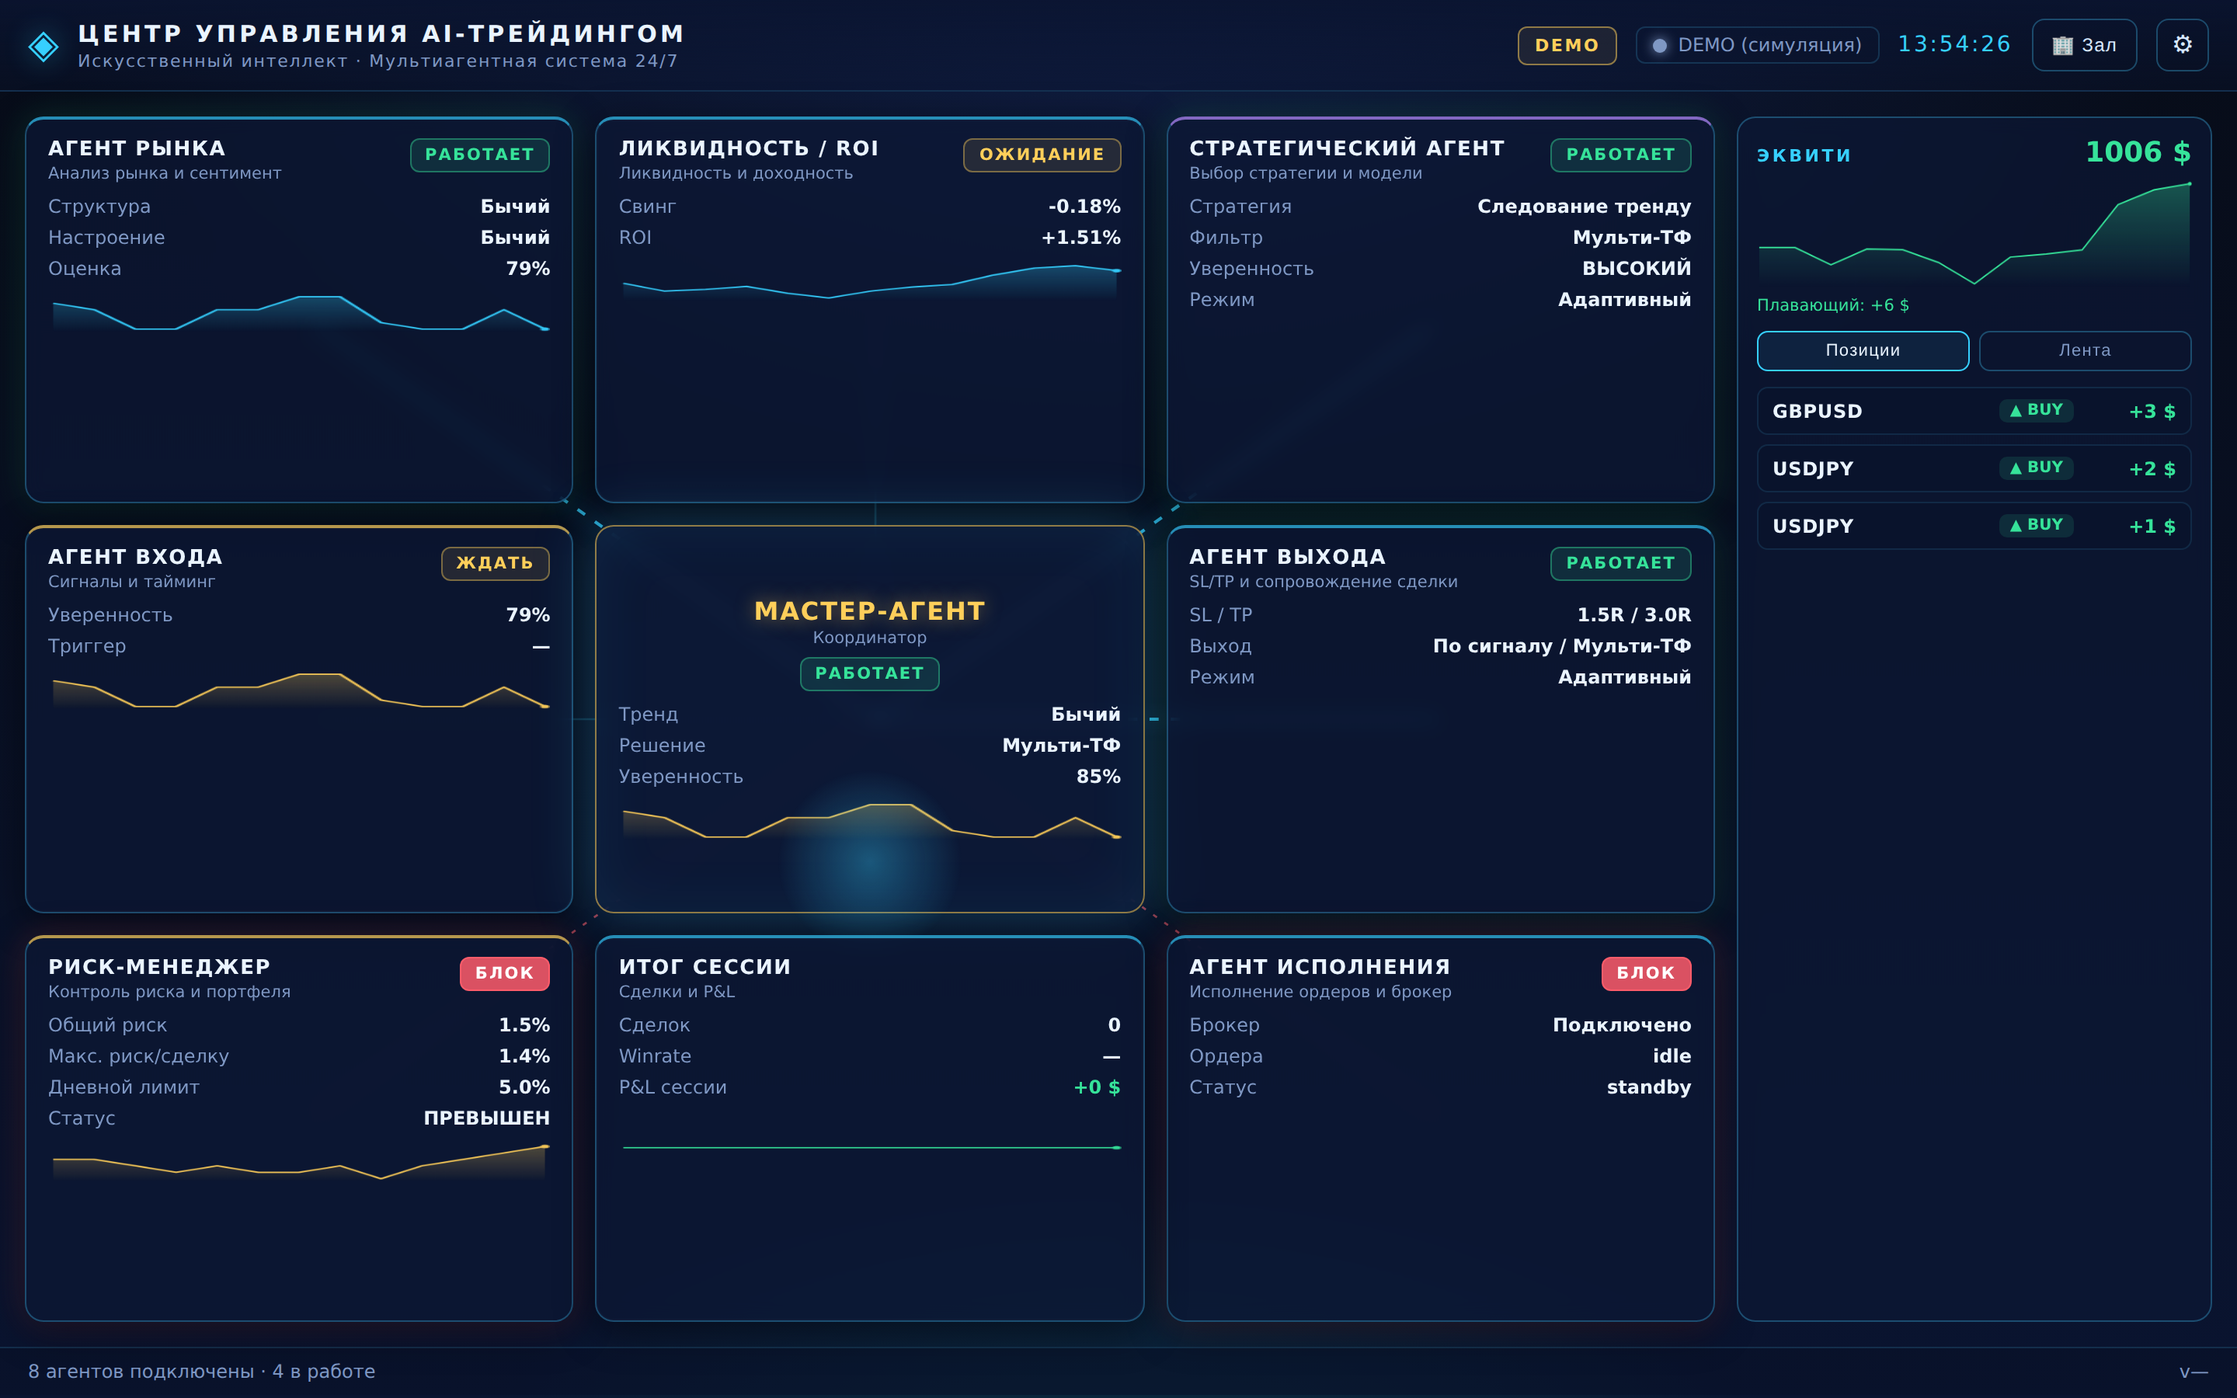
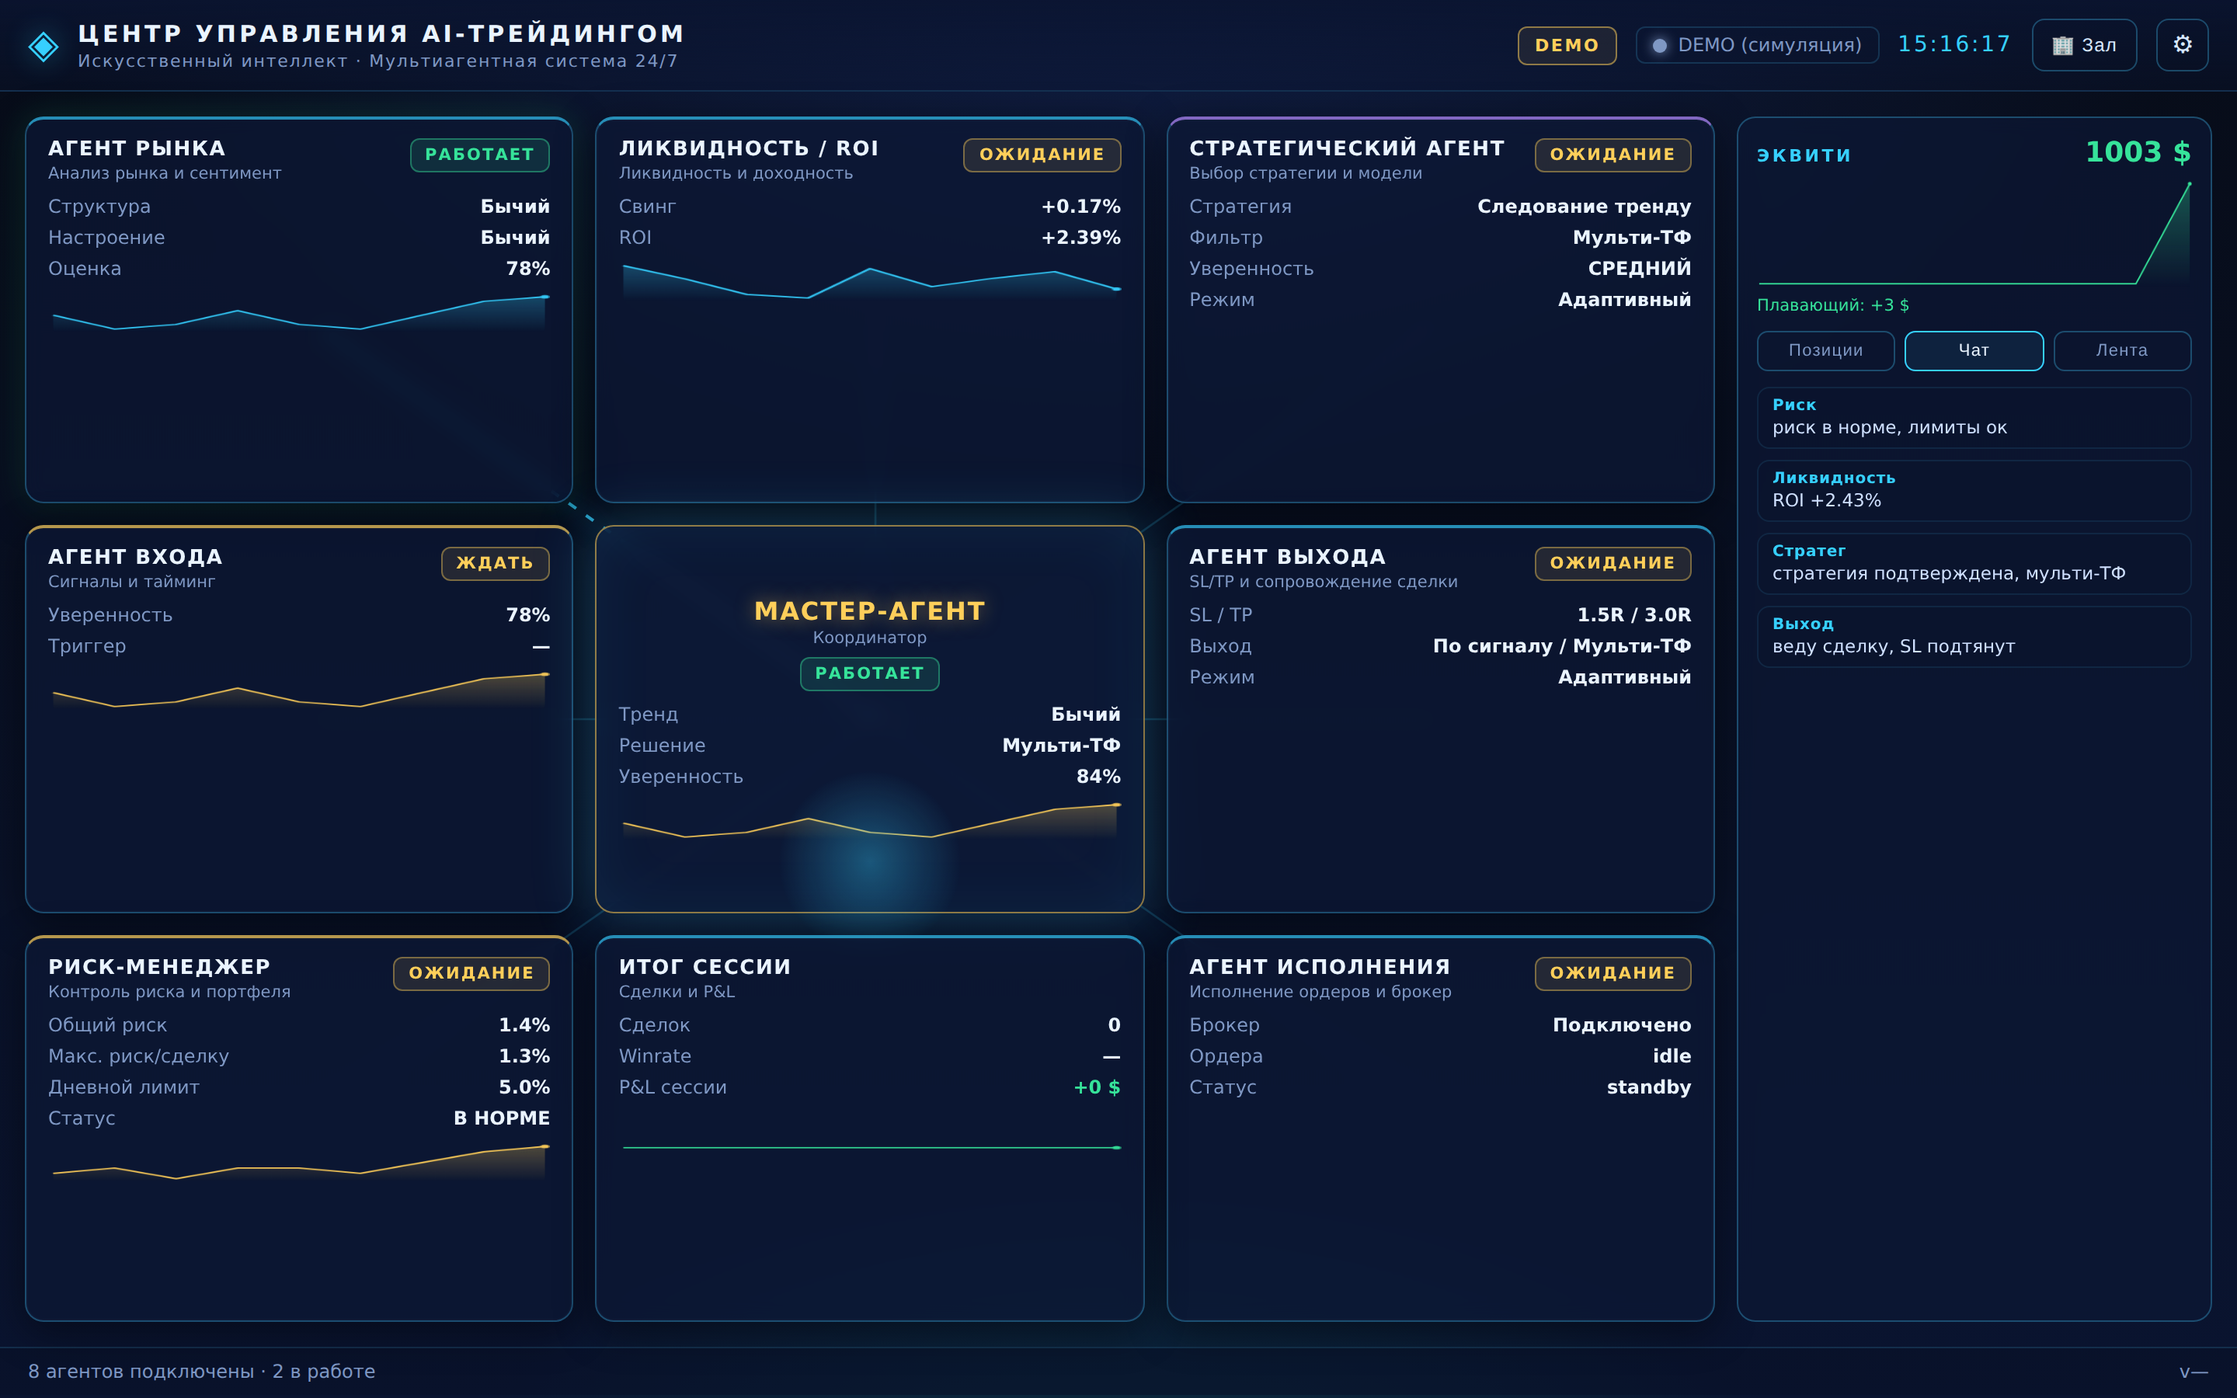
Team-alive: hiring/leaving, energy & mood, team chat
- Dynamic team size: the simulator hires an intern as equity climbs and loses
  one on drawdown (hysteresis); the floor spawns/removes intern characters
  ('Стажёр') who walk in at the entrance, roam, and leave via the exit.
- Energy & mood: each agent has an energy bar under its nameplate that drains
  while working and recovers on breaks; tired agents head for coffee; the whole
  team does a happy bounce when equity jumps (a win).
- Team chat: a new 'Чат' tab in the right column streams short, state-aware
  agent lines (market structure, master decision, risk, execution, ROI).

Validated error-free via headless Chromium (assets/hud.png, floor.png).

Claude-Session: https://claude.ai/code/session_01K4bLkzzwJQD9288yDjJJh4

diff --git a/AI-Trading-Office-V4/renderer/office.js b/AI-Trading-Office-V4/renderer/office.js
@@ -48,6 +48,9 @@ let canvas, ctx, raf = 0, last = 0, dpr = 1;
 let ents = {}, agentsDef = null;
 let viewScale = 1, viewOx = 0, viewOy = 0, selectedId = null, onSelectCb = null;
 let activeSymbols = new Set();
+let interns = [], internSeq = 0, lastEquity = 1000, cheerUntil = 0;
+const ENTRANCE = { x: 600, y: 172 };            // interns appear/leave here (under the video wall)
+const ornd = (a, b) => a + Math.random() * (b - a);
 let standup = { active: false, until: 0, nextAt: 0 };
 let signals = [], nextSignalAt = 0, lastDecision = '';
 
@@ -67,14 +70,39 @@ function initEntities() {
       color: accentFor(a.id), skin: SKINS[hh % SKINS.length], hair: HAIRS[(hh >> 3) % HAIRS.length],
       hairStyle: hh % 5, beard: ((hh >> 6) % 4) === 0, look: ROLE_LOOK[a.id] || {},
       brokerRun: { active: false, phase: 'go', until: 0 }, brokerCooldown: 0,
-      blinkOffset: (hh % 5000), data: null, gesture: null, gestureUntil: 0
+      blinkOffset: (hh % 5000), data: null, gesture: null, gestureUntil: 0,
+      energy: 65 + Math.random() * 30
     };
   });
   standup = { active: false, until: 0, nextAt: performance.now() + 20000 };
   signals = []; nextSignalAt = performance.now() + 4000; lastDecision = '';
+  interns = []; internSeq = 0; lastEquity = 1000; cheerUntil = 0;
+}
+
+function spawnIntern() {
+  const hh = Math.floor(Math.random() * 100000);
+  interns.push({
+    id: 'intern' + (++internSeq), x: ENTRANCE.x + ornd(-24, 24), y: ENTRANCE.y + 8,
+    tx: ENTRANCE.x, ty: ENTRANCE.y + 40, status: 'waiting', phase: Math.random() * 10, facing: 1, moving: false,
+    roaming: false, dwellUntil: 0, roamKind: null, leaving: false,
+    color: '#8fd0ff', skin: SKINS[hh % SKINS.length], hair: HAIRS[(hh >> 3) % HAIRS.length],
+    hairStyle: hh % 5, beard: false, look: {}, blinkOffset: hh % 5000, gesture: null, gestureUntil: 0, energy: 85
+  });
+}
+function syncInterns(target) {
+  let active = interns.filter(i => !i.leaving);
+  while (active.length < target) { spawnIntern(); active = interns.filter(i => !i.leaving); }
+  for (let i = interns.length - 1; i >= 0 && active.length > target; i--) {
+    if (!interns[i].leaving) { interns[i].leaving = true; active = interns.filter(x => !x.leaving); }
+  }
+}
+function pickRoamGeneric(e) {
+  if (Math.random() < 0.5) { e.tx = 120 + Math.random() * (W - 240); e.ty = 360 + Math.random() * 320; e.roamKind = 'wander'; }
+  else { const r = ROAM[Math.floor(Math.random() * ROAM.length)]; e.tx = r.x; e.ty = r.y; e.roamKind = r.kind; }
 }
 
 function pickRoam(e) {
+  if (e.energy != null && e.energy < 35 && Math.random() < 0.6) { e.tx = ROAM[0].x; e.ty = ROAM[0].y; e.roamKind = 'coffee'; return; }  // tired → coffee
   if (Math.random() < 0.28) { const d = DESKS[e.id]; e.tx = d.x; e.ty = d.y; e.roamKind = 'desk'; return; }
   const r = ROAM[Math.floor(Math.random() * ROAM.length)];
   e.tx = r.x; e.ty = r.y; e.roamKind = r.kind;
@@ -88,6 +116,9 @@ const Office = {
     const m = world.agents.master && world.agents.master.metrics;
     if (m && m.decision) lastDecision = String(m.decision);
     activeSymbols = new Set((world.summary && world.summary.activeSymbols) || []);
+    const eq = world.summary && world.summary.equity;
+    if (typeof eq === 'number') { if (eq - lastEquity > 4) cheerUntil = performance.now() + 1500; lastEquity = eq; }
+    syncInterns((world.summary && world.summary.interns) || 0);
   },
   start() { if (!raf) { last = performance.now(); loop(performance.now()); } },
   stop() { cancelAnimationFrame(raf); raf = 0; },
@@ -95,7 +126,9 @@ const Office = {
   forceSignal() { signals.push({ t0: performance.now(), dur: 4600, symbol: SYMB[Math.floor(Math.random() * SYMB.length)], side: sideFromDecision() }); },
   forceBrokerRun() { const e = ents.execution; if (e) e.brokerRun = { active: true, phase: 'go', until: 0, symbol: 'XAUUSD', side: 'BUY' }; },
   select(id) { selectedId = (id && ents[id]) ? id : null; if (onSelectCb) onSelectCb(selectedId); },
-  onSelect(cb) { onSelectCb = cb; }
+  onSelect(cb) { onSelectCb = cb; },
+  testInterns(n) { syncInterns(n); }   // preview helper
+
 };
 
 function resizeIfNeeded() {
@@ -174,6 +207,24 @@ function step(dt, now) {
       }
     }
     if (e.gesture && (e.moving || now > e.gestureUntil)) e.gesture = null;
+    // energy: drains at the desk, recovers on breaks (coffee fastest)
+    if (e.status === 'working') e.energy = Math.max(0, e.energy - 0.02 * dt);
+    else e.energy = Math.min(100, e.energy + (e.roamKind === 'coffee' ? 0.05 : 0.02) * dt);
+  }
+  // interns roam the hall; a leaving one heads for the exit and despawns
+  for (let i = interns.length - 1; i >= 0; i--) {
+    const e = interns[i];
+    if (e.leaving) {
+      e.tx = ENTRANCE.x; e.ty = ENTRANCE.y + 6; e.roamKind = null; moveToward(e, dt);
+      if (Math.abs(e.x - ENTRANCE.x) < 8 && Math.abs(e.y - (ENTRANCE.y + 6)) < 8) interns.splice(i, 1);
+      continue;
+    }
+    if (!e.roaming) { e.roaming = true; pickRoamGeneric(e); e.dwellUntil = 0; }
+    if (Math.abs(e.x - e.tx) < 3 && Math.abs(e.y - e.ty) < 3) {
+      if (!e.dwellUntil) e.dwellUntil = now + 1500 + Math.random() * 4000;
+      else if (now > e.dwellUntil) { pickRoamGeneric(e); e.dwellUntil = 0; }
+    }
+    moveToward(e, dt);
   }
 }
 
@@ -217,6 +268,7 @@ function draw(now) {
     items.push({ y: d.y + 34, fn: () => { drawWorkstation(id, now); if (isSit) drawSeated(e, now); } });
     if (!isSit) items.push({ y: e.y + 16, fn: () => drawWalking(e, now) });
   }
+  for (const e of interns) items.push({ y: e.y + 16, fn: () => drawWalking(e, now) });
   items.sort((a, b) => a.y - b.y);
   for (const it of items) it.fn();
 
@@ -492,7 +544,8 @@ function drawChair(x, y) {
 /* ---- people ---- */
 function drawSeated(e, now) {
   const d = DESKS[e.id]; const breath = Math.sin(now / 700 + e.phase) * 0.5;
-  const x = d.x, y = d.y - 18 + breath;
+  const cheer = now < cheerUntil ? Math.abs(Math.sin(now / 80 + e.phase)) * 3 : 0;   // bounce on a team win
+  const x = d.x, y = d.y - 18 + breath - cheer;
   shadow(x, y + 22, 13);
   ctx.fillStyle = e.color; roundRect(x - 11, y - 2, 22, 22, 7); ctx.fill();
   ctx.fillStyle = shade(e.color, -28); roundRect(x + 4, y - 2, 7, 22, 4); ctx.fill();      // body shade
@@ -508,7 +561,8 @@ function drawSeated(e, now) {
 }
 
 function drawWalking(e, now) {
-  const x = e.x, y = e.y, walk = e.moving ? Math.sin(e.phase) : Math.sin(now / 700 + e.phase) * 0.3;
+  const cheer = now < cheerUntil ? Math.abs(Math.sin(now / 80 + e.phase)) * 3 : 0;
+  const x = e.x, y = e.y - cheer, walk = e.moving ? Math.sin(e.phase) : Math.sin(now / 700 + e.phase) * 0.3;
   shadow(x, y + 15, 11);
   ctx.fillStyle = '#1b2b4d'; roundRect(x - 6, y + 6 + walk * 2, 5, 11, 2); ctx.fill(); roundRect(x + 1, y + 6 - walk * 2, 5, 11, 2); ctx.fill();
   ctx.fillStyle = e.color; roundRect(x - 9, y - 10, 18, 20, 6); ctx.fill();
@@ -573,12 +627,20 @@ function drawHair(e, x, y) {
 }
 
 function nameplate(e, x, y) {
-  const label = SHORT[e.id] || e.id; ctx.font = '9px Segoe UI, sans-serif'; ctx.textAlign = 'center';
+  const label = SHORT[e.id] || (String(e.id).startsWith('intern') ? 'Стажёр' : e.id);
+  ctx.font = '9px Segoe UI, sans-serif'; ctx.textAlign = 'center';
   const w = ctx.measureText(label).width + 10, st = e.status;
   const bg = st === 'working' ? 'rgba(54,227,154,0.18)' : st === 'blocked' ? 'rgba(255,93,108,0.22)' : 'rgba(12,24,52,0.8)';
   roundRect(x - w / 2, y - 9, w, 13, 4); ctx.fillStyle = bg; ctx.fill();
   ctx.strokeStyle = 'rgba(54,208,255,0.25)'; ctx.lineWidth = 0.8; ctx.stroke();
   ctx.fillStyle = 'rgba(234,244,255,0.95)'; ctx.fillText(label, x, y + 1);
+  // energy bar
+  if (e.energy != null) {
+    const bw = 22, ex = x - bw / 2, ey = y + 5;
+    ctx.fillStyle = 'rgba(255,255,255,0.12)'; roundRect(ex, ey, bw, 2.6, 1); ctx.fill();
+    ctx.fillStyle = e.energy > 50 ? '#36e39a' : e.energy > 25 ? '#ffcf5a' : '#ff6b7a';
+    roundRect(ex, ey, bw * e.energy / 100, 2.6, 1); ctx.fill();
+  }
 }
 
 function emote(e, x, y, now) {

diff --git a/AI-Trading-Office-V4/renderer/app.js b/AI-Trading-Office-V4/renderer/app.js
@@ -82,6 +82,32 @@ function buildPanels() {
 
 function highlightPanel(id) { for (const k in panels) panels[k].root.classList.toggle('selected', k === id); }
 
+// ---------- team chat (short role-appropriate chatter) ----------
+function genChat() {
+  if (!world || !world.agents) return;
+  const a = world.agents, lines = [];
+  const dir = String((a.market.metrics || {}).structure || '').toLowerCase();
+  if (dir) lines.push(['Рынок', `структура ${dir}, сентимент ${dir}`]);
+  const dec = (a.master.metrics || {}).decision;
+  if (dec) lines.push(['Мастер', `решение: ${dec}`]);
+  if (a.strategy.status === 'working') lines.push(['Стратег', 'стратегия подтверждена, мульти-ТФ']);
+  if (a.entry.status === 'working') lines.push(['Вход', 'есть триггер — входим по сигналу']);
+  if (a.exit.status === 'working') lines.push(['Выход', 'веду сделку, SL подтянут']);
+  if (a.risk.status === 'blocked') lines.push(['Риск', 'риск превышен — вход заблокирован ⛔']);
+  else lines.push(['Риск', 'риск в норме, лимиты ок']);
+  if (a.execution.status === 'working') lines.push(['Исполнение', 'отправляю ордер брокеру 📦']);
+  if (a.liquidity.metrics && a.liquidity.metrics.roi) lines.push(['Ликвидность', `ROI ${a.liquidity.metrics.roi}`]);
+  if (!lines.length) return;
+  const [who, text] = lines[Math.floor(Math.random() * lines.length)];
+  pushChat(who, text);
+}
+function pushChat(who, text) {
+  const ul = el('chat-list'); if (!ul) return;
+  const li = document.createElement('li'); li.className = 'chat-item';
+  li.innerHTML = `<span class="chat-who">${who}</span><span class="chat-text">${escapeHtml(text)}</span>`;
+  ul.prepend(li); while (ul.children.length > 50) ul.removeChild(ul.lastChild);
+}
+
 function renderPositions(list) {
   const ul = el('pos-list'); if (!ul) return;
   if (!list.length) { ul.innerHTML = '<li class="pos-empty">Нет открытых позиций</li>'; return; }
@@ -299,8 +325,9 @@ window.addEventListener('DOMContentLoaded', () => {
   document.querySelectorAll('.tab').forEach(t => t.addEventListener('click', () => {
     document.querySelectorAll('.tab').forEach(x => x.classList.toggle('active', x === t));
     const show = t.dataset.tab;
-    el('pos-list').hidden = show !== 'pos'; el('feed-list').hidden = show !== 'feed';
+    el('pos-list').hidden = show !== 'pos'; el('chat-list').hidden = show !== 'chat'; el('feed-list').hidden = show !== 'feed';
   }));
+  setInterval(genChat, 2600);
   window.addEventListener('resize', () => requestAnimationFrame(drawLinks));
   tickClock(); setInterval(tickClock, 1000);
   wireBridge();

diff --git a/AI-Trading-Office-V4/renderer/agents.js b/AI-Trading-Office-V4/renderer/agents.js
@@ -65,6 +65,7 @@ class Simulator {
     this.swing = rnd(-0.8, 1.2);
     this.trades = 0; this.wins = 0; this.pnl = 0;     // session trade stats (P&L tile)
     this.positions = []; this.equity = 1000; this.floating = 0; this.posSeq = 0;
+    this.interns = 0;                                  // dynamic team size (grows with profit)
     this.state = {};
     for (const a of AGENTS) this.state[a.id] = { status: 'waiting', metrics: {} };
     this._recompute();
@@ -155,6 +156,15 @@ class Simulator {
     }
     this.equity = 1000 + this.pnl + this.floating;
 
+    // dynamic team: hire an intern as profit grows, lose one on drawdown (with hysteresis)
+    if (this.equity >= 1000 + (this.interns + 1) * 55 && this.interns < 4) {
+      this.interns++;
+      log.push({ kind: 'ok', text: `Нанят новый агент-стажёр — команда: ${8 + this.interns}` });
+    } else if (this.interns > 0 && this.equity <= 1000 + this.interns * 45 - 25) {
+      this.interns--;
+      log.push({ kind: 'bad', text: `Стажёр покинул команду (просадка) — команда: ${8 + this.interns}` });
+    }
+
     return this.snapshot(log);
   }
 
@@ -176,7 +186,7 @@ class Simulator {
       seq: this.seq, mode: 'demo', connection: 'demo',
       summary: { connected: AGENTS.length, working, pnl: this.pnl, trades: this.trades,
                  winrate: this.trades ? Math.round(this.wins / this.trades * 100) : null,
-                 equity: this.equity, floating: this.floating,
+                 equity: this.equity, floating: this.floating, interns: this.interns,
                  positions: this.positions.map(p => ({ symbol: p.symbol, side: p.side, pnl: p.pnl })),
                  activeSymbols: this.positions.map(p => p.symbol) },
       agents,

diff --git a/AI-Trading-Office-V4/renderer/styles.css b/AI-Trading-Office-V4/renderer/styles.css
@@ -122,6 +122,11 @@ body.view-floor .agents-grid,body.view-floor .links{display:none}
 .pos-pnl{font-variant-numeric:tabular-nums; font-weight:700; min-width:58px; text-align:right}
 .pos-pnl.up{color:var(--green)} .pos-pnl.down{color:var(--red)}
 .pos-empty{color:var(--muted); font-size:12px; text-align:center; padding:18px 0}
+.chat-list{list-style:none; margin:0; padding:0; overflow:auto; display:flex; flex-direction:column; gap:7px; flex:1 1 auto; min-height:0}
+.chat-item{display:flex; flex-direction:column; gap:1px; font-size:11.5px; padding:6px 9px; border-radius:8px;
+  background:rgba(10,20,44,.5); border:1px solid rgba(64,180,230,.12)}
+.chat-who{font-weight:700; color:var(--cyan); font-size:10px; letter-spacing:.04em}
+.chat-text{color:#cfe0ff}
 .feed-title{font-size:11px; letter-spacing:.16em; color:var(--cyan); margin-bottom:10px; font-weight:700}
 .feed-list{list-style:none; margin:0; padding:0; overflow:auto; display:flex; flex-direction:column; gap:7px; flex:1 1 auto; min-height:0}
 [hidden]{display:none !important}

diff --git a/AI-Trading-Office-V4/renderer/index.html b/AI-Trading-Office-V4/renderer/index.html
@@ -43,9 +43,11 @@
       </div>
       <div class="tabs">
         <button class="tab active" data-tab="pos">Позиции</button>
+        <button class="tab" data-tab="chat">Чат</button>
         <button class="tab" data-tab="feed">Лента</button>
       </div>
       <ul id="pos-list" class="pos-list"></ul>
+      <ul id="chat-list" class="chat-list" hidden></ul>
       <ul id="feed-list" class="feed-list" hidden></ul>
     </aside>
   </main>
